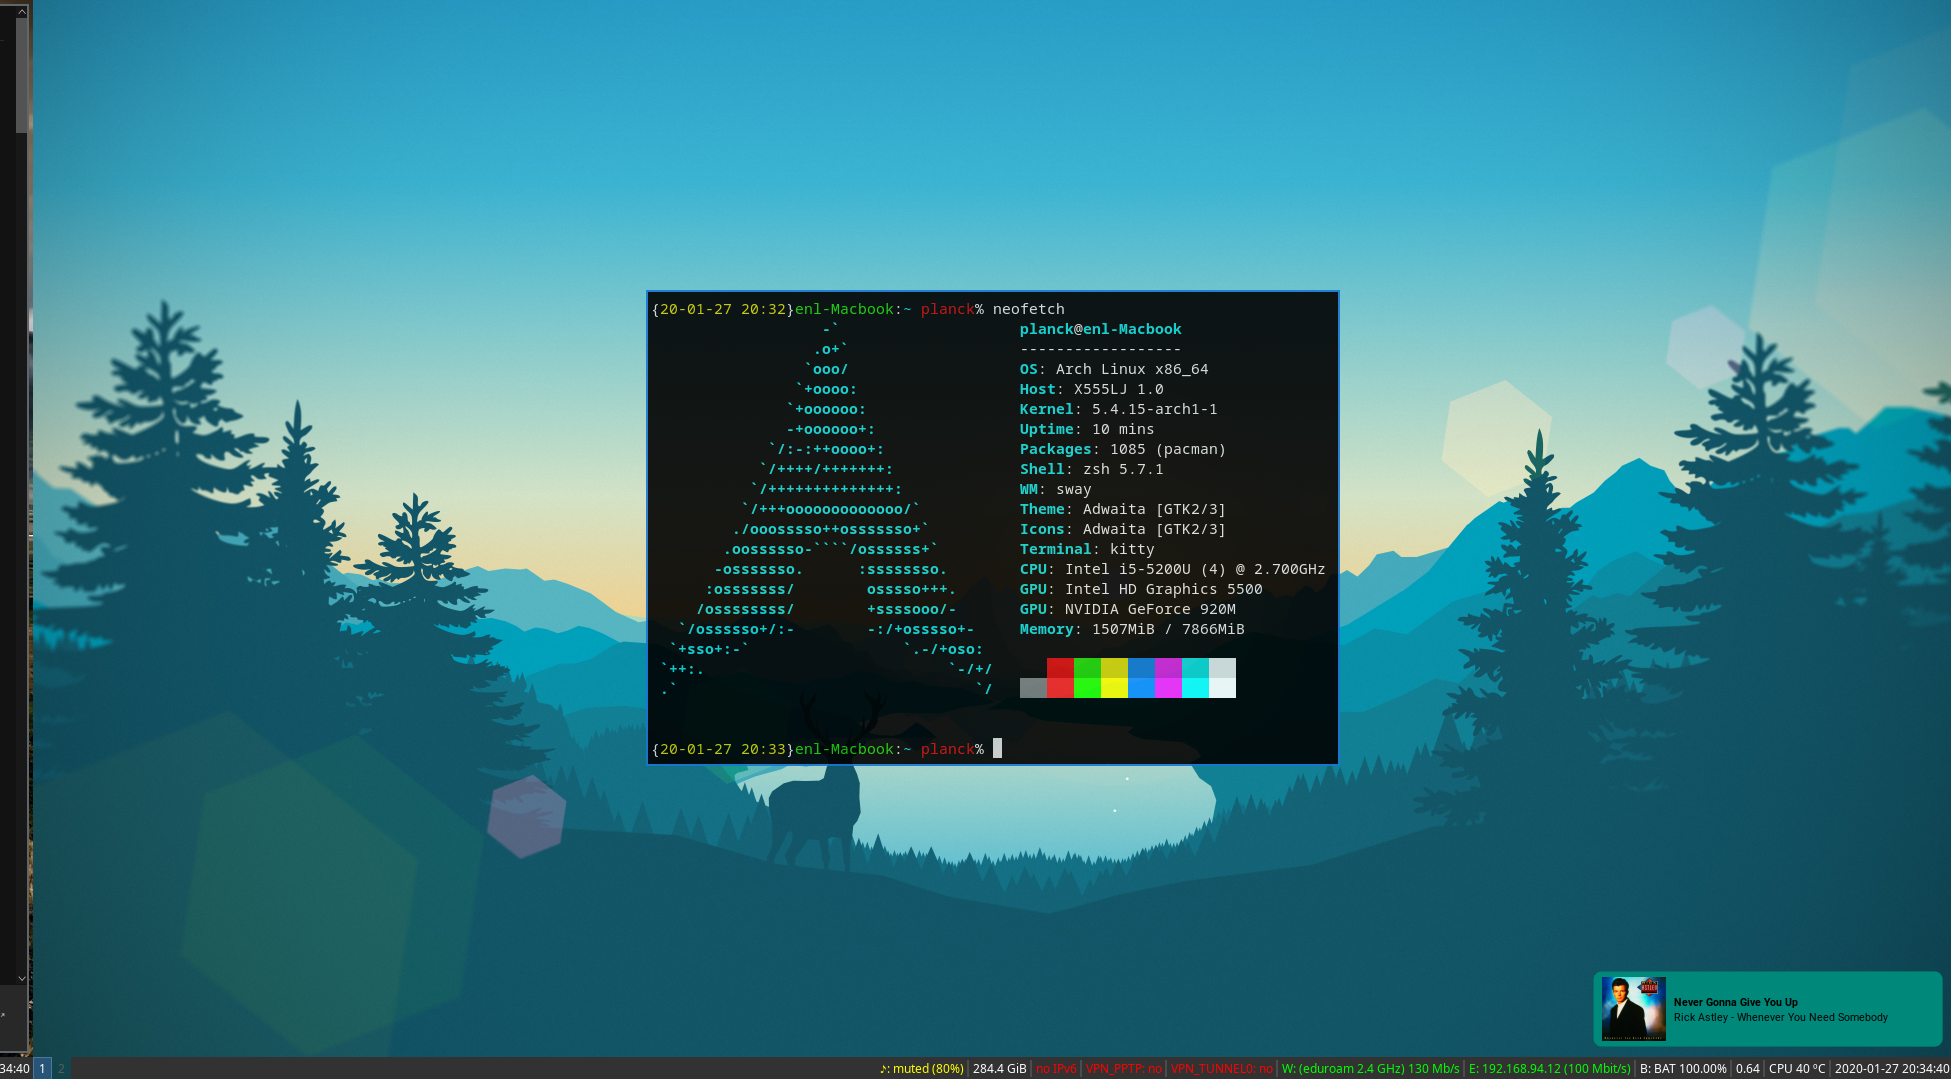
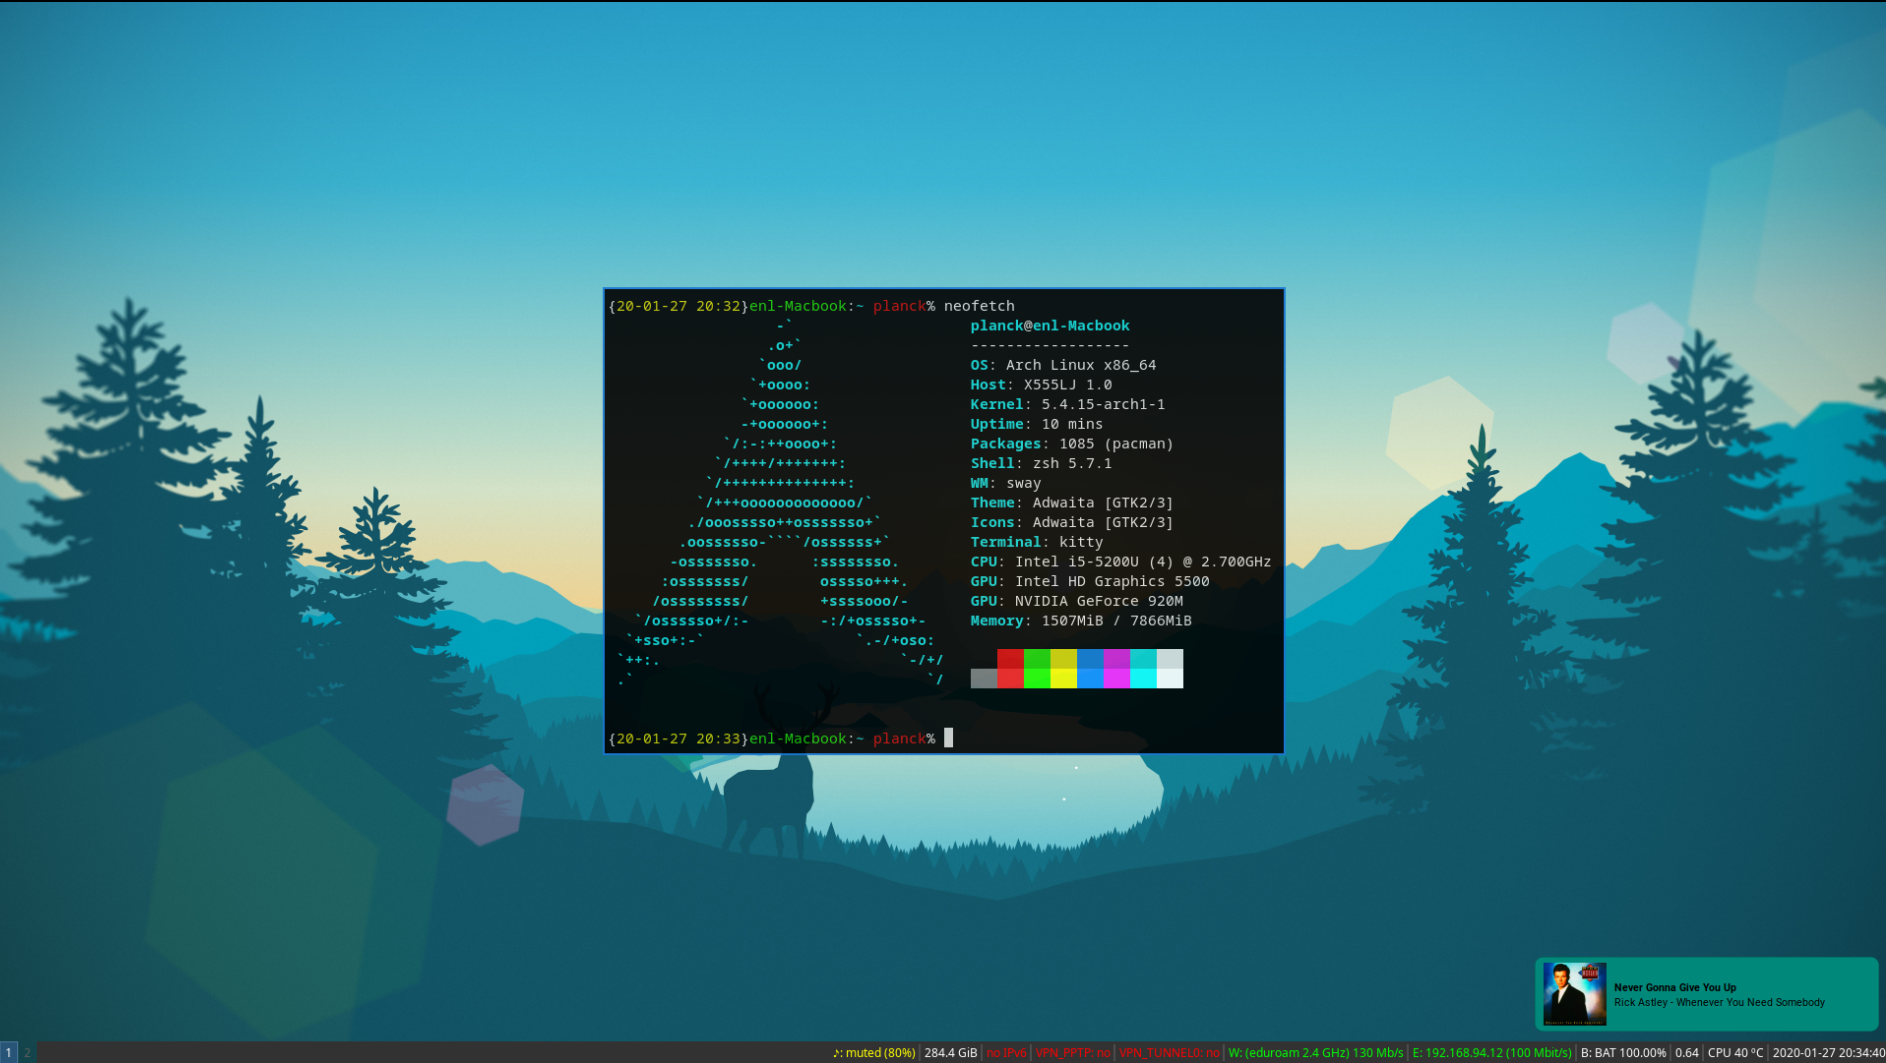
Rice cut

diff --git a/README.md b/README.md
@@ -4,5 +4,5 @@ Hereby you can find my current Dotfiles.
 
 
 My current "rice" looks like this :
-[Rice](https://raw.githubusercontent.com/Jpfonseca/Ghostfiles/pics/neofetch.png)
+[Rice](https://raw.githubusercontent.com/Jpfonseca/Ghostfiles/master/pics/neofetch.png)
 
